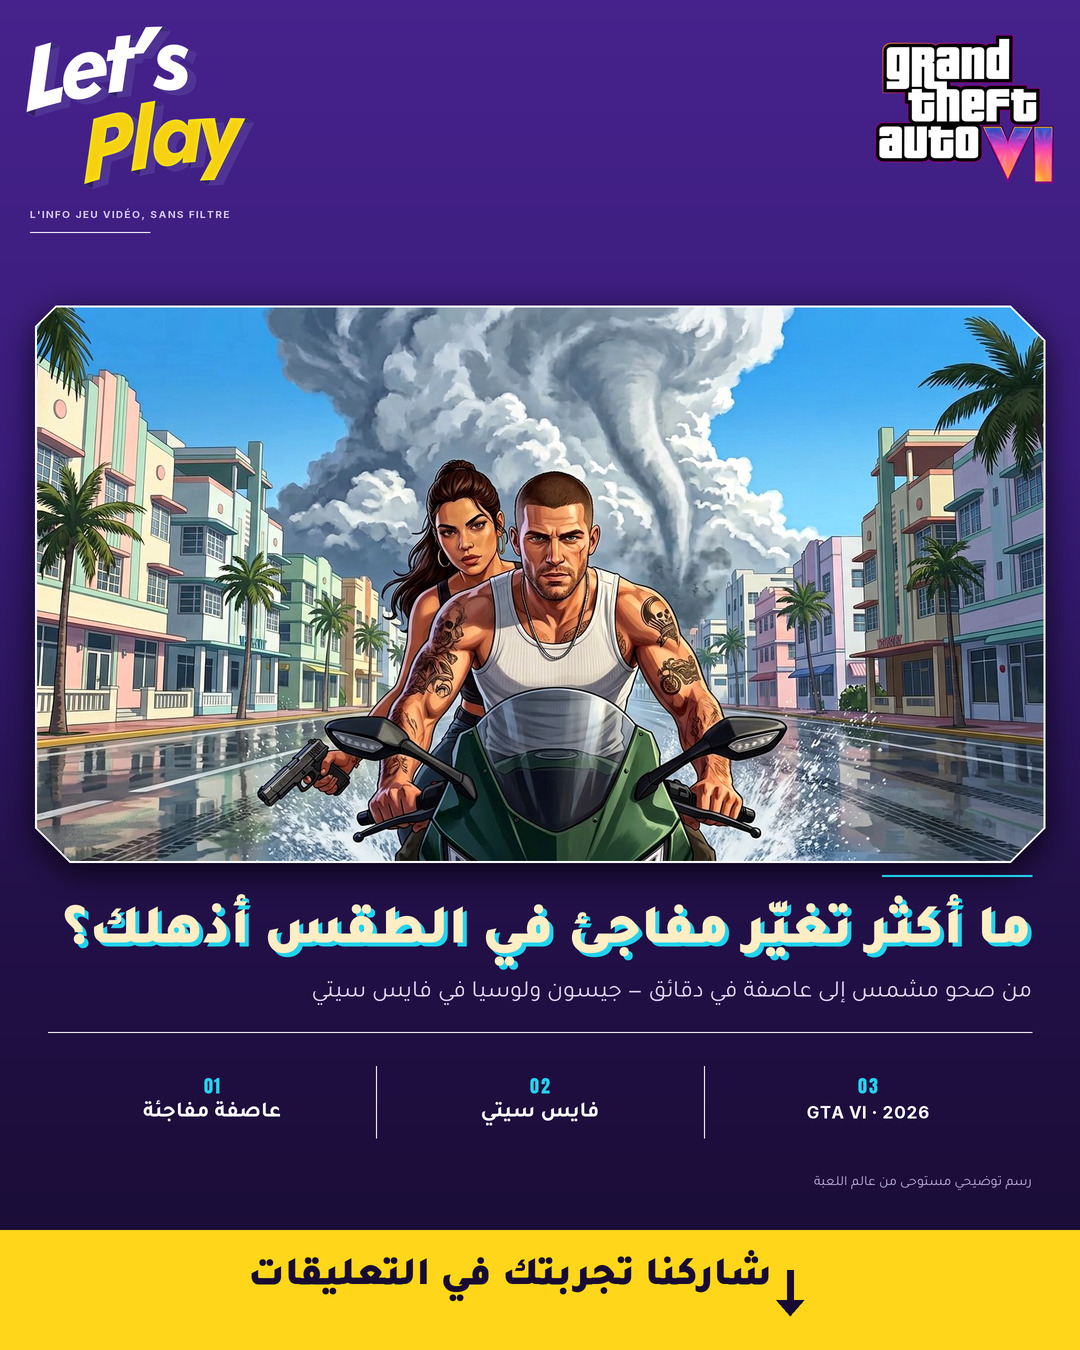
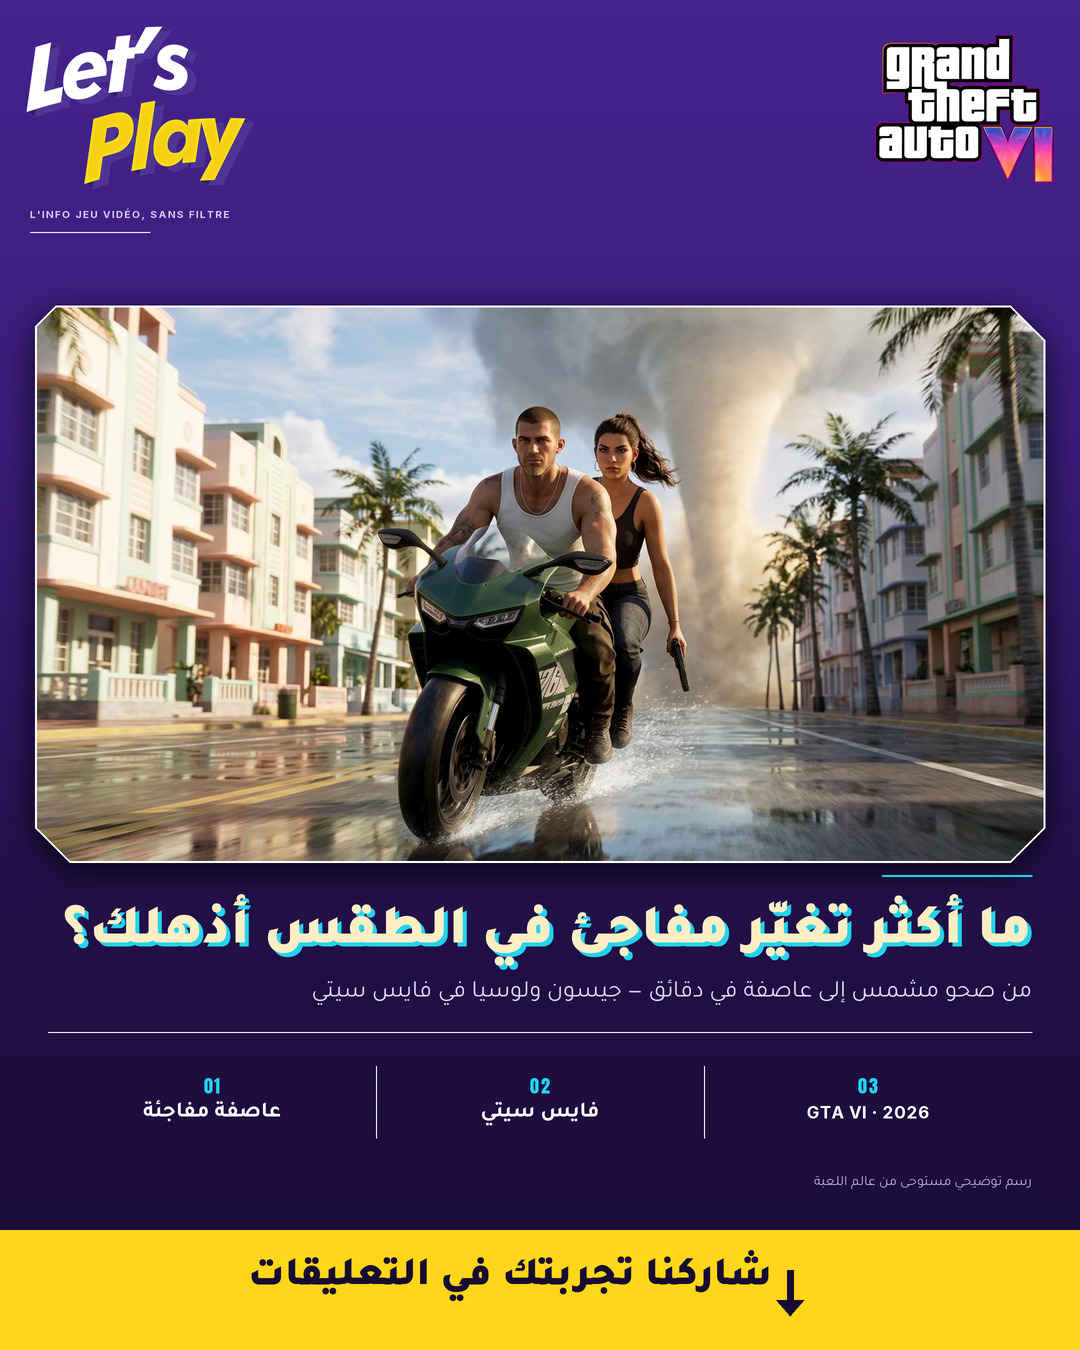
Affiche météo : rendu 3D photoréaliste
Remplacement de l'illustration par un rendu 3D photoréaliste (Jason et Lucia
à moto, orage soudain derrière eux, plein jour) ; le script pointe sur
gta6-fuite-tempete-3d.jpg.

diff --git a/scripts/visuels/make_gta_storm_45.py b/scripts/visuels/make_gta_storm_45.py
@@ -19,9 +19,9 @@ Composition « plein cadre » du gabarit Let's Play :
 Le texte est en arabe (droite → gauche), composé avec HarfBuzz via
 `arabic_text.py` ; seuls les nombres et « GTA VI » restent en latin.
 
-Visuel : `instagram/assets/gta6-fuite-tempete.jpg` (illustration originale dans
-l'esprit des key arts de *GTA VI*, pas une capture officielle — elle est donc
-créditée comme illustration, pas comme image Rockstar).
+Visuel : `instagram/assets/gta6-fuite-tempete-3d.jpg` — rendu 3D photoréaliste
+original (pas une capture officielle : il est donc crédité comme illustration,
+pas comme image Rockstar).
 
 Usage :
     python3 scripts/visuels/make_gta_storm_45.py [--out DOSSIER]
@@ -118,7 +118,7 @@ def base():
 
 def artwork():
     """Illustration entière, sans recadrage : les deux visages restent dans le cadre."""
-    art = Image.open(ASSETS / "gta6-fuite-tempete.jpg").convert("RGB")
+    art = Image.open(ASSETS / "gta6-fuite-tempete-3d.jpg").convert("RGB")
     w, h = WINDOW[2] - WINDOW[0], WINDOW[3] - WINDOW[1]
     art = art.resize((px(w), px(h)), Image.Resampling.LANCZOS)
     art = ImageEnhance.Color(art).enhance(1.06)

diff --git a/scripts/visuels/README.md b/scripts/visuels/README.md
@@ -180,7 +180,7 @@ recadrage ne coupe les visages), suivie de la question arabe
 repères factuels et du pied jaune « شاركنا تجربتك في التعليقات ». En-tête :
 logo Let's Play + logo GTA VI.
 
-L'illustration (`instagram/assets/gta6-fuite-tempete.jpg`) est **originale**,
+L'illustration (`instagram/assets/gta6-fuite-tempete-3d.jpg`, rendu 3D) est **originale**,
 dans l'esprit des key arts du jeu : elle est créditée comme telle dans l'affiche
 (« رسم توضيحي مستوحى من عالم اللعبة »), pas comme une capture officielle.
 
